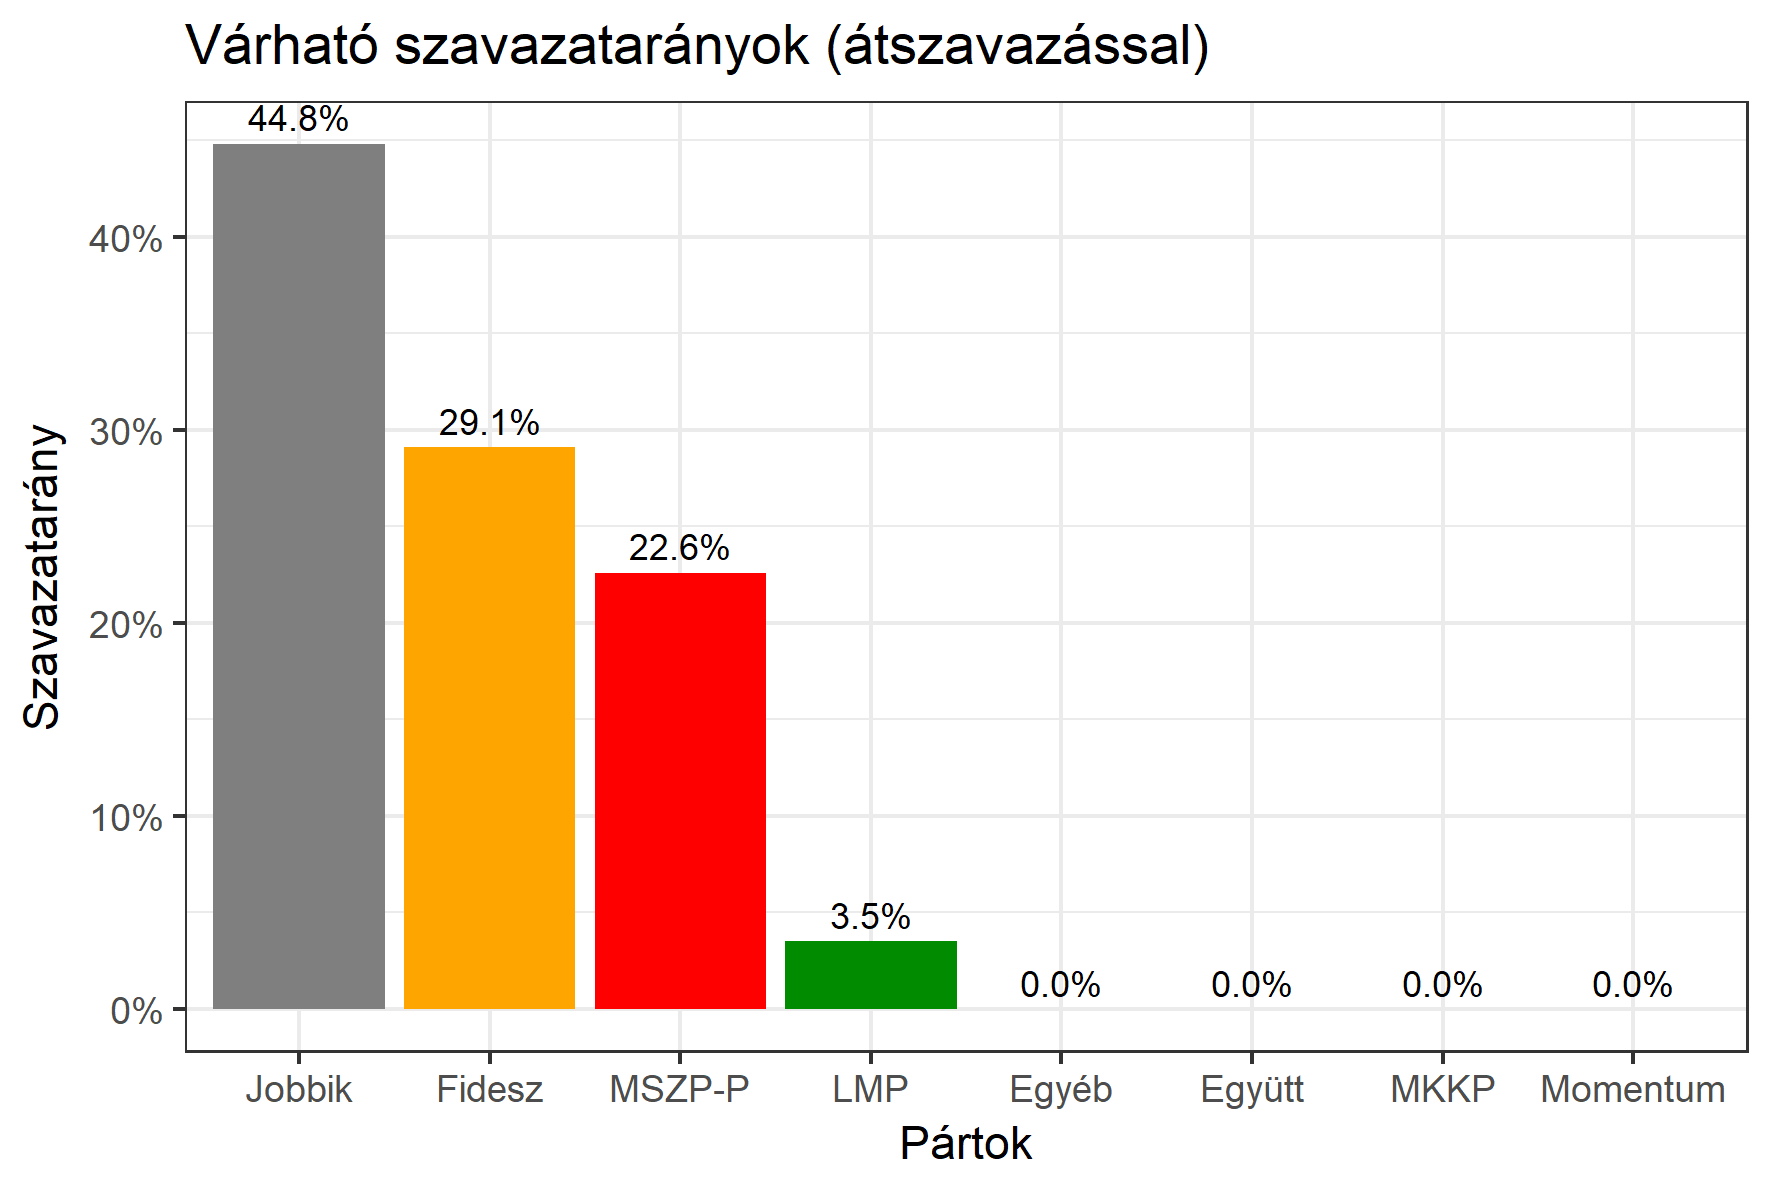
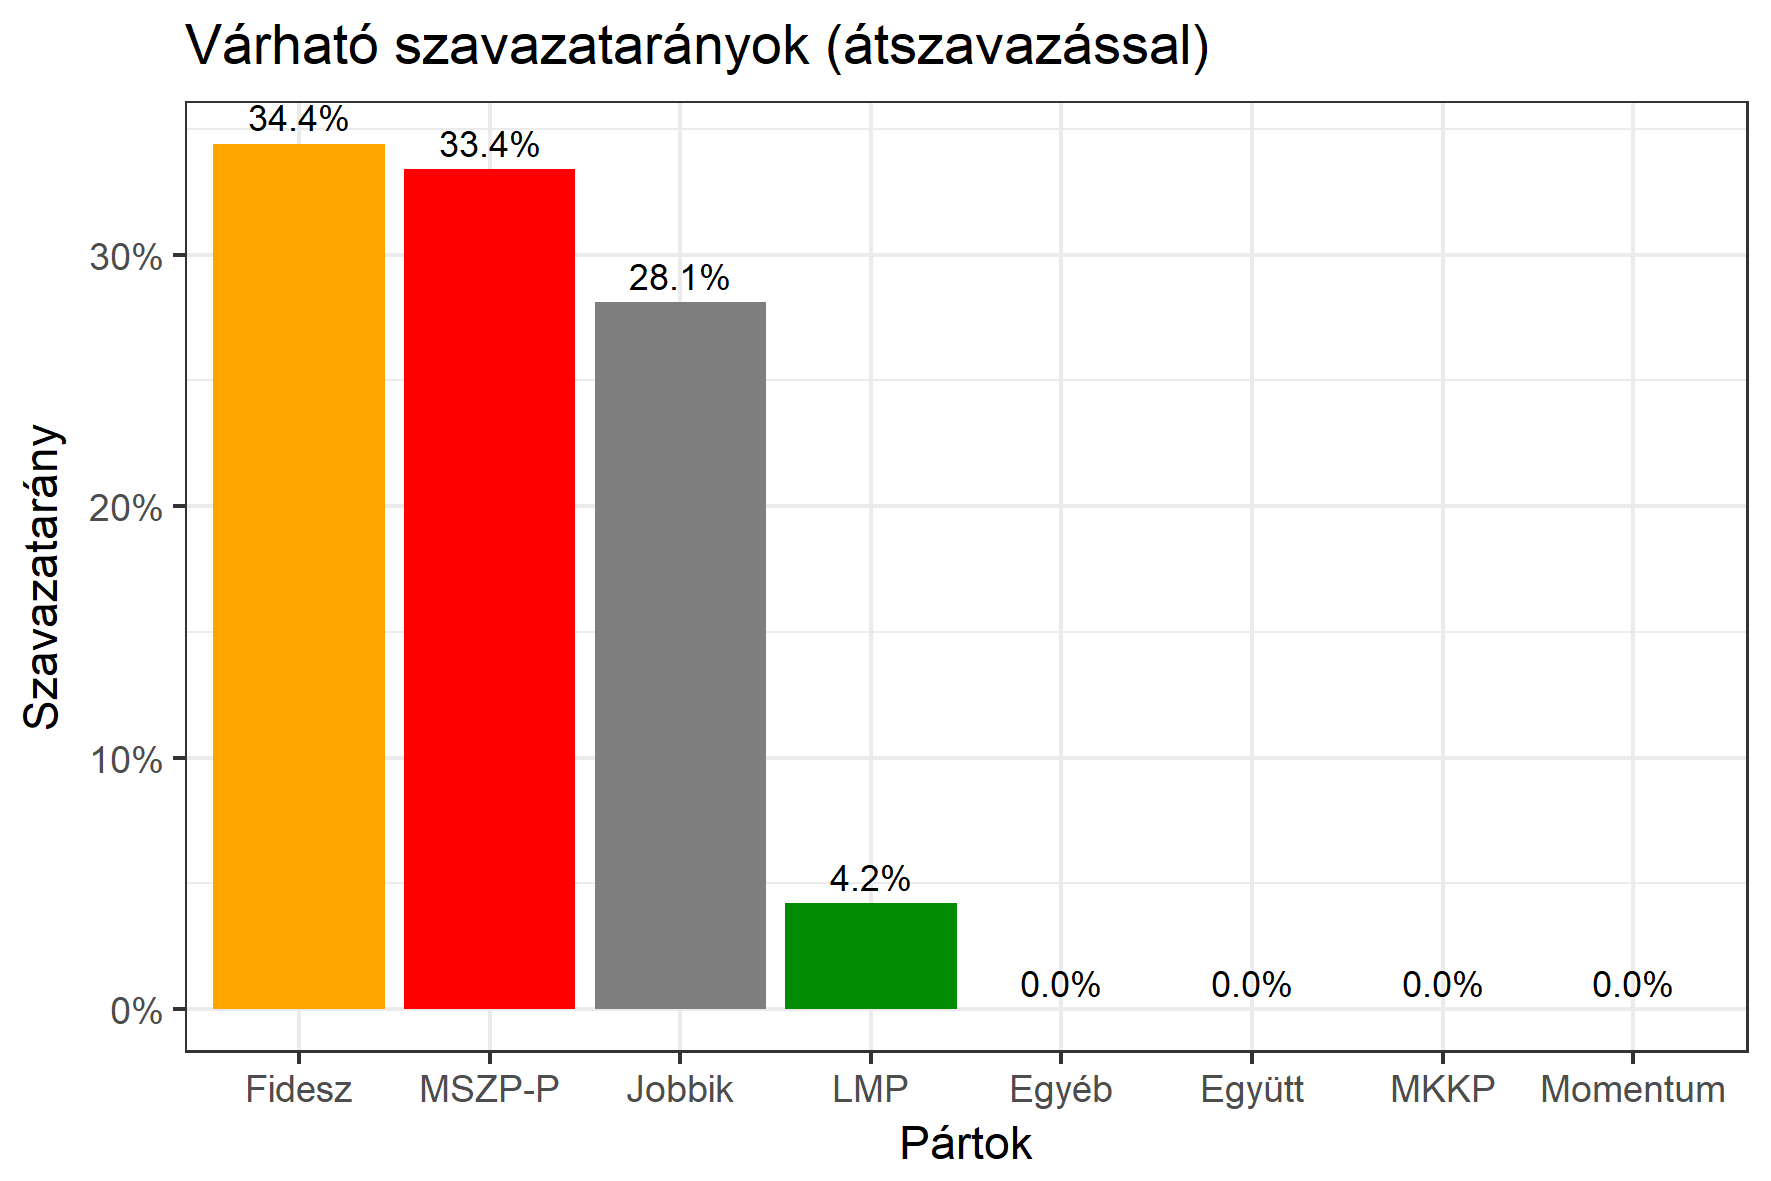
baz 2 frissít

Changed region(s): [[0.0311, 0.0914, 0.559, 0.8535], [0.1242, 0.9145, 0.3106, 0.945], [0.3416, 0.9145, 0.4348, 0.945]]

diff --git a/baz2.md b/baz2.md
@@ -14,33 +14,33 @@ permalink: /baz2
 <br/>
 <h6><strong>Legfrissebb 2018-as becslések eredménye (átszavazással):</strong></h6><br/><img src="images/vk_charts/baz2.png" style="height: 100%; width: 100%; object-fit: contain"><br/>
 			<h6><strong>Becslés megbízhatósága a legesélyesebb jelöltről:</strong> <strong><span id="biztos_jelolt">A Jobbikos jelölt az egyértelmű esélyes</span></strong></h6><br/>
-<h5><strong>Legesélyesebb ellenzéki jelölt: <span id="masodik">Pakusza Zoltán (Jobbik)</span><span id="esely2"></span><span></span></strong></h5>
+<h5><strong>Legesélyesebb ellenzéki jelölt: <span id="masodik">Varga László (MSZP-Párbeszéd)</span><span id="esely2"></span><span></span></strong></h5>
 <h5><strong><a href="https://rendszervaltas2018.hu">Márki-Zay Péter ajánlása</a>: </strong></h5>
 <table class="striped">
               <thead>
                 <tr>
                     <th>Jelöltek</th>
-                    <th>Várható szavazatarány egyéniben (zárójelben az arányok átszavazás esetén)</th>
+                    <th>Várható szavazatarány egyéniben (zárójelben az arányok átszavazás esetén) - FRISSÍTVE</th>
                 </tr>
               </thead>
               <tbody>
              <tr>
                   <td>Hubay György - Fidesz-KDNP <img src="images/fideszkdnp_logo.png" style="width:55px;height:30px;"></td>
-				   <td id="id_fidesz">29.7% &emsp; <span id="id_fidesz2">(29.1%)</span></td>
+				   <td id="id_fidesz">33.2% &emsp; <span id="id_fidesz2">(34.4%)</span></td>
 			</tr>
-			<tr><td>Pakusza Zoltán - Jobbik <img src="images/jobbik_logo.png" style="width:23px;height:30px;"></td> <td id="id_jobbik">35.2% &emsp; <span id="id_jobbik2">(44.8%)</span></td></tr>
+			<tr><td>Pakusza Zoltán - Jobbik <img src="images/jobbik_logo.png" style="width:23px;height:30px;"></td> <td id="id_jobbik">27.7% &emsp; <span id="id_jobbik2">(28.1%)</span></td></tr>
 <tr>
                   <td>dr. Varga László - MSZP-Párbeszéd <img src="images/mszpparbeszed_logo.png" style="width:60px;height:30px;"></td>
-				   <td id="id_baloldal">25.7% &emsp; <span id="id_baloldal2">(22.6%)</span></td>
+				   <td id="id_baloldal">28.5% &emsp; <span id="id_baloldal2">(33.4%)</span></td>
 			</tr>
 			<tr>
                   <td>Doszpoly Botond László - LMP <img src="images/lmp_logo.png" style="width:52px;height:30px;"></td>
-				   <td id="id_lmp">5.5% &emsp; <span id="id_lmp2">(3.5%)</span></td>
+				   <td id="id_lmp">6.2% &emsp; <span id="id_lmp2">(4.2%)</span></td>
 			</tr>
 			
                 
               </tbody>
-            </table><h5>Várható győztes: <span id="gyoztes">Pakusza Zoltán (Jobbik)</span><span id="esely"></span><span></span></h5>
+            </table><h5>Várható győztes: <span id="gyoztes">Fidesz</span><span id="esely"></span><span></span></h5>
 			
 			
 <br/><p><strong>Fontos:</strong> A becslések csak az egyéni jelöltre adott szavazatok arányát mutatják, nem a listás szavazatokét. A becslés jelentős eltérést mutathat a kisebb pártok esetében és olyan kerületekben, ahol nincs egyértelmű esélyes jelölt.</p>
